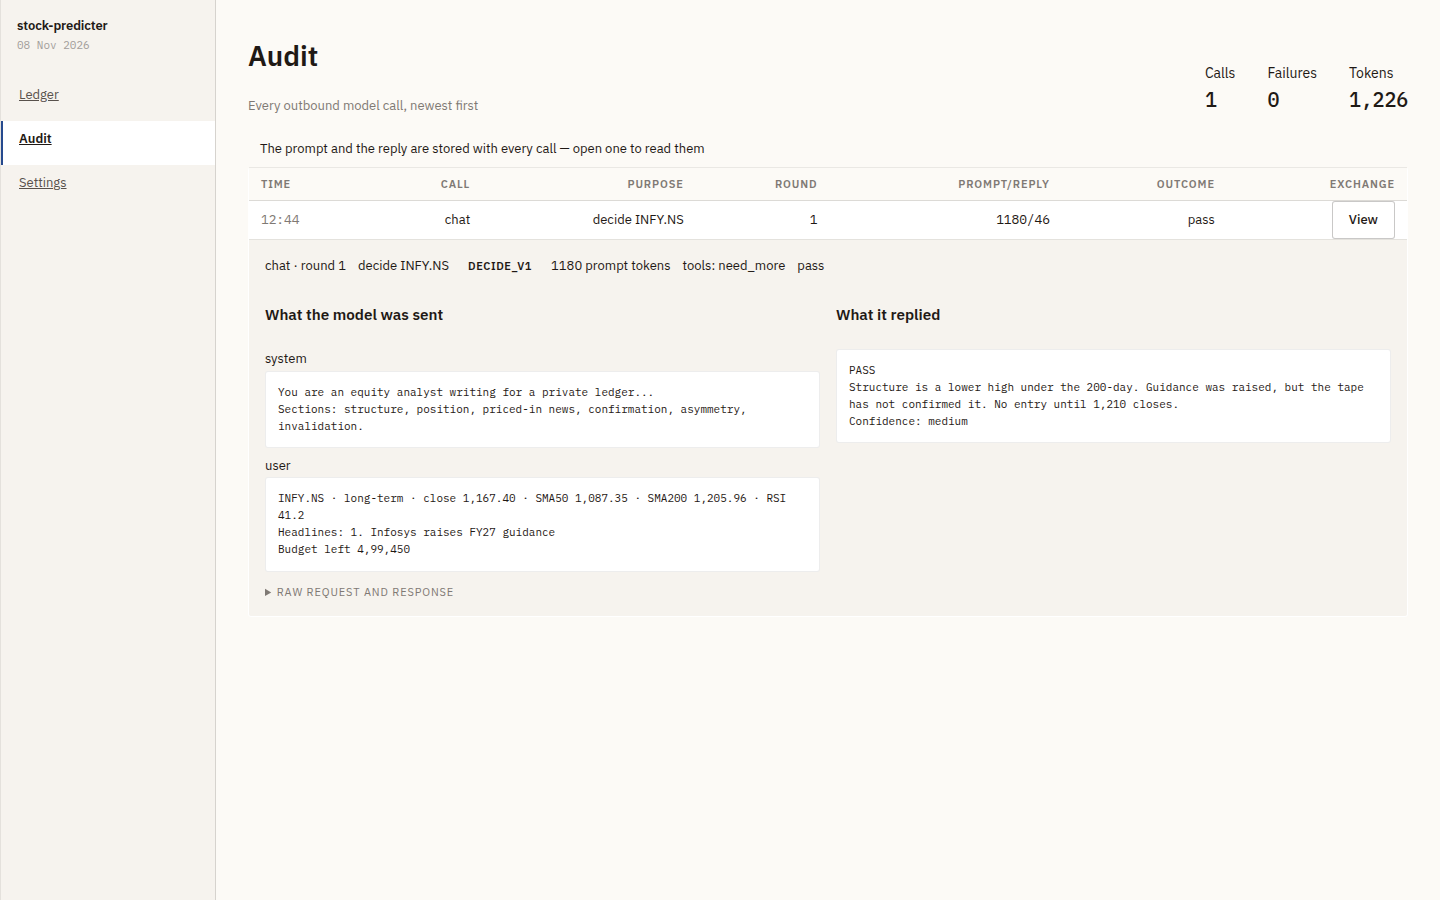
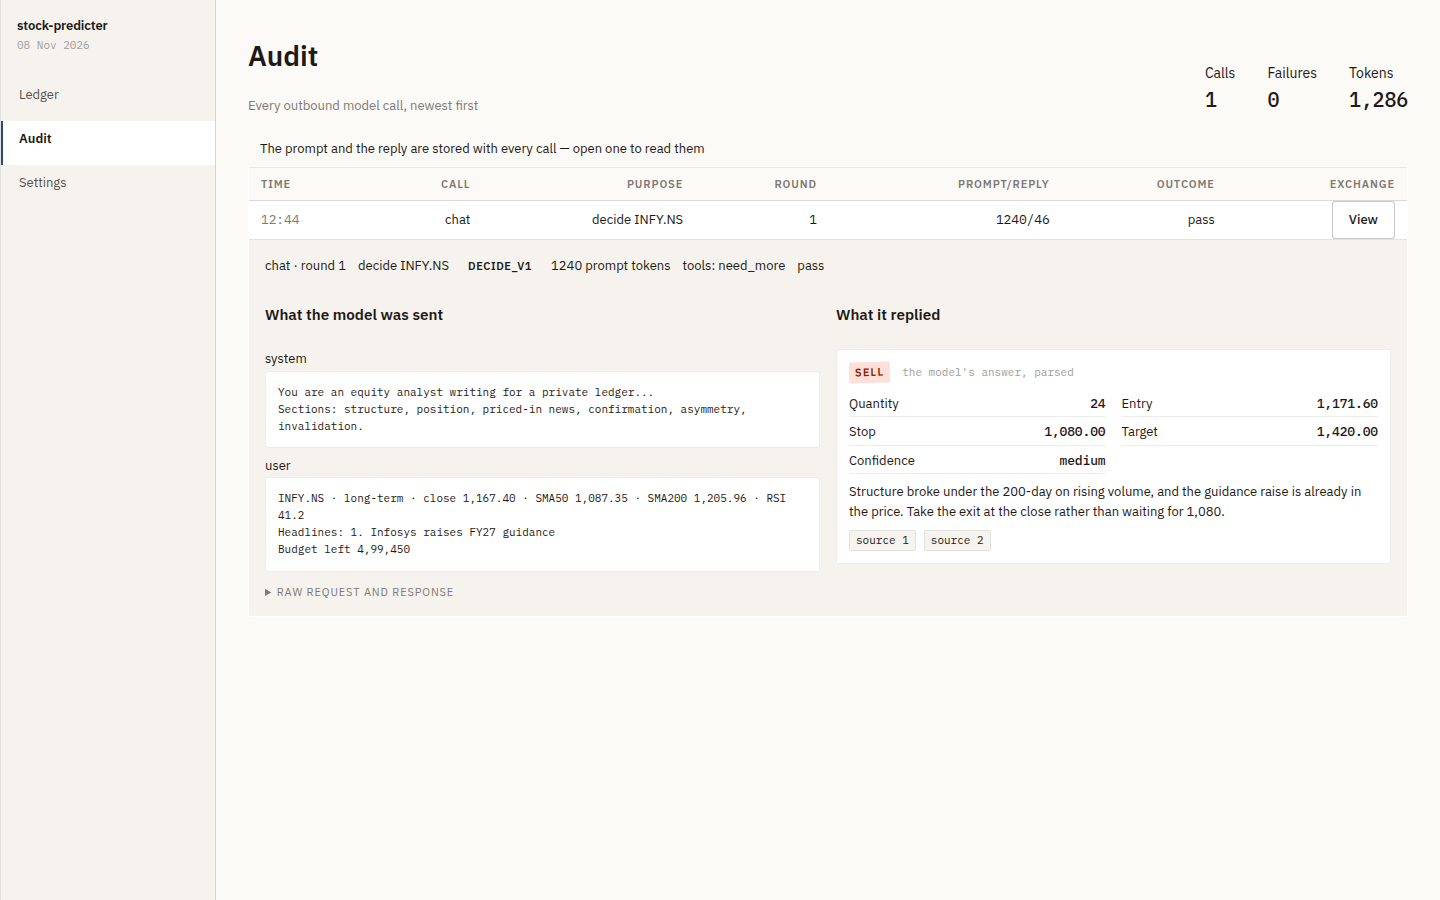
feat(ui): the model's reply reads as a decision, signal is its own column, no MF tag, undecorated rail

diff --git a/web/src/pages/ledger.ts b/web/src/pages/ledger.ts
@@ -61,13 +61,14 @@ export function renderRow(d: Dashboard, p: Dashboard["positions"][number]): stri
   return `<tr class="row" data-symbol="${escapeHtml(p.symbol)}" tabindex="0" role="link"
       aria-label="${escapeHtml(p.name)}, open details">
   <td class="holding"><div class="name">${escapeHtml(p.name)}</div>
-    <div class="sub">${escapeHtml(p.symbol)}${isFund ? ` <span class="stamp" data-stamp="estimate">MF</span>` : ""} · ${signal}</div></td>
+    <div class="sub">${escapeHtml(p.symbol)}</div></td>
   <td class="num hide-sm">${units(p.qty)}</td>
   <td class="num hide-sm">${money(p.avg_cost)}</td>
   <td class="num hide-sm">${money(invested)}</td>
   <td class="num">${nowCell}</td>
   <td class="num hide-sm">${valueCell}</td>
   <td class="num ${live ? (pnl >= 0 ? "up" : "down") : ""}">${pnlCell}</td>
+  <td class="signal-col">${signal}</td>
   <td class="right hide-sm">${plan}</td>
 </tr>`;
 }
@@ -85,11 +86,11 @@ function section(title: string, note: string, head: string, body: string, total?
 const STOCK_HEAD = `<tr><th scope="col">Holding</th><th scope="col" class="hide-sm">Qty</th>
   <th scope="col" class="hide-sm">Bought</th><th scope="col" class="hide-sm">Invested</th>
   <th scope="col">Now</th><th scope="col" class="hide-sm">Value</th>
-  <th scope="col">P&amp;L</th><th scope="col" class="hide-sm">Exit plan</th></tr>`;
+  <th scope="col">P&amp;L</th><th scope="col">Signal</th><th scope="col" class="hide-sm">Exit plan</th></tr>`;
 const FUND_HEAD = `<tr><th scope="col">Scheme</th><th scope="col" class="hide-sm">Units</th>
   <th scope="col" class="hide-sm">Avg NAV</th><th scope="col" class="hide-sm">Invested</th>
   <th scope="col">NAV today</th><th scope="col" class="hide-sm">Value</th>
-  <th scope="col">P&amp;L</th><th scope="col" class="hide-sm">Execution</th></tr>`;
+  <th scope="col">P&amp;L</th><th scope="col">Signal</th><th scope="col" class="hide-sm">Execution</th></tr>`;
 
 const subtotal = (label: string, invested: number, value: number): string => {
   const pnl = value - invested;
@@ -97,7 +98,7 @@ const subtotal = (label: string, invested: number, value: number): string => {
     <td class="num hide-sm">${money(invested)}</td><td>—</td>
     <td class="num hide-sm">${money(value)}</td>
     <td class="num ${pnl >= 0 ? "up" : "down"}">${pnl >= 0 ? "+" : "−"}${money(Math.abs(pnl))}</td>
-    <td class="sub hide-sm">—</td></tr>`;
+    <td>—</td><td class="sub hide-sm">—</td></tr>`;
 };
 
 const sum = (rows: Dashboard["positions"]): { invested: number; value: number } => ({
@@ -140,7 +141,7 @@ export function renderLedger(d: Dashboard, recent: Trade[]): string {
     STOCK_HEAD,
     stocks.length
       ? stocks.map((p) => renderRow(d, p)).join("")
-      : `<tr><td colspan="8" class="empty">No stocks yet — search on the right.</td></tr>`,
+      : `<tr><td colspan="9" class="empty">No stocks yet — search on the right.</td></tr>`,
     stocks.length
       ? subtotal("Stocks", sum(stocks).invested, sum(stocks).value)
       : "",
@@ -152,7 +153,7 @@ export function renderLedger(d: Dashboard, recent: Trade[]): string {
     FUND_HEAD,
     funds.length
       ? funds.map((p) => renderRow(d, p)).join("")
-      : `<tr><td colspan="8" class="empty">No funds yet. A fund is added at NAV and held.</td></tr>`,
+      : `<tr><td colspan="9" class="empty">No funds yet. A fund is added at NAV and held.</td></tr>`,
     funds.length
       ? subtotal("Funds", sum(funds).invested, sum(funds).value)
       : "",
@@ -172,7 +173,7 @@ export function renderLedger(d: Dashboard, recent: Trade[]): string {
   )}
   <div class="mode-row">${renderModeTabs(d.mode)}<span class="sub">${d.currency} · as of the last poll</span></div>
   ${d.mode === "trade" ? section("Trading positions", `${d.positions.length} · all stocks`, STOCK_HEAD,
-      d.positions.length ? d.positions.map((p) => renderRow(d, p)).join("") : `<tr><td colspan="8" class="empty">Nothing in the trading pot.</td></tr>`) : stocksSection + fundsSection}
+      d.positions.length ? d.positions.map((p) => renderRow(d, p)).join("") : `<tr><td colspan="9" class="empty">Nothing in the trading pot.</td></tr>`) : stocksSection + fundsSection}
   <div class="cards">
     <section class="card">
       <div class="lbl">Add an instrument</div>

diff --git a/web/src/components/call-viewer.ts b/web/src/components/call-viewer.ts
@@ -101,3 +101,68 @@ export function pretty(raw: string | null, max = 20000): string {
   const text = typeof value === "string" ? value : JSON.stringify(value, null, 2);
   return text.length > max ? `${text.slice(0, max)}\n… truncated in the view; the database has it all` : text;
 }
+
+/** The model's answer, once its JSON is understood. */
+export interface Reply {
+  /** "BUY" | "SELL" | "PASS" | "NEED_MORE" — or null when the body was not that shape. */
+  verdict: string | null;
+  entry: number | null;
+  stop: number | null;
+  target: number | null;
+  qty: number | null;
+  confidence: string | null;
+  rationale: string | null;
+  /** PASS carries "why"; NEED_MORE carries what it wants. */
+  why: string | null;
+  wantsHeadlines: number[];
+  wantsHistory: boolean;
+  cites: number[];
+  /** Anything else the body said, so nothing is silently dropped. */
+  rest: Record<string, unknown> | null;
+}
+
+const num = (v: unknown): number | null => (typeof v === "number" && Number.isFinite(v) ? v : null);
+const str = (v: unknown): string | null => (typeof v === "string" && v.trim() ? v.trim() : null);
+
+/** `{"action":"decide","signal":{…}}` and its bare variants, from one parser. */
+export function parseReply(content: string): Reply {
+  const empty: Reply = {
+    verdict: null, entry: null, stop: null, target: null, qty: null, confidence: null,
+    rationale: null, why: null, wantsHeadlines: [], wantsHistory: false, cites: [], rest: null,
+  };
+  let body: unknown;
+  try {
+    body = JSON.parse(content);
+  } catch {
+    return empty;
+  }
+  const outer = asRecord(body);
+  if (!outer) return empty;
+  const decision = asRecord(outer.signal) ?? outer;
+  const action = str(decision.action) ?? str(outer.action);
+  const verdict =
+    action === null ? null : action === "decide" ? "DECIDE" : action.toUpperCase();
+  const confidence = asRecord(decision.confidence) ? null : str(decision.confidence);
+  const more = asRecord(decision.need_more) ?? asRecord(outer.need_more) ?? asRecord(outer.more);
+  const headlines = more?.headlines ?? decision.headlines;
+  return {
+    verdict,
+    entry: num(decision.entry),
+    stop: num(decision.stop),
+    target: num(decision.target),
+    qty: num(decision.qty),
+    confidence: typeof confidence === "string" ? confidence : null,
+    rationale: str(decision.rationale) ?? str(outer.rationale),
+    why: str(decision.why) ?? str(outer.why) ?? str(outer.reason),
+    wantsHeadlines: Array.isArray(headlines)
+      ? headlines
+          .map((h) => (typeof h === "number" ? h : num(asRecord(h)?.headline_id)))
+          .filter((n): n is number => n !== null)
+      : [],
+    wantsHistory: Boolean(more?.price_history ?? more?.history),
+    cites: Array.isArray(decision.cites)
+      ? decision.cites.filter((c): c is number => typeof c === "number")
+      : [],
+    rest: outer,
+  };
+}

diff --git a/web/src/pages/calls.ts b/web/src/pages/calls.ts
@@ -1,8 +1,9 @@
 import type { CallRow } from "../api";
-import { escapeHtml } from "../format";
+import { escapeHtml, money } from "../format";
 import { renderApp, renderHead } from "../components/shell";
 import {
   declaredTools,
+  parseReply,
   pretty,
   promptBlocks,
   replyText,
@@ -53,6 +54,47 @@ export function renderCalls(rows: CallRow[]): string {
   </section>`);
 }
 
+/** The reply as a decision, not as JSON: a verdict, its numbers, and what it wants next. */
+function decisionCard(reply: string): string {
+  const r = parseReply(reply);
+  if (!r.verdict) {
+    return `<section class="call-block"><pre>${
+      reply ? escapeHtml(reply) : "<em>no readable content — see the raw JSON</em>"
+    }</pre></section>`;
+  }
+  const stamp = r.verdict === "BUY" ? "buy" : r.verdict === "SELL" ? "sell" : "estimate";
+  const row = (label: string, value: string) =>
+    `<div class="decision-row"><span class="lbl">${label}</span><b class="num">${value}</b></div>`;
+  const figures = [
+    r.qty !== null ? row("Quantity", String(r.qty)) : "",
+    r.entry !== null ? row("Entry", money(r.entry)) : "",
+    r.stop !== null ? row("Stop", money(r.stop)) : "",
+    r.target !== null ? row("Target", money(r.target)) : "",
+    r.confidence ? row("Confidence", r.confidence) : "",
+  ].join("");
+  const wants = r.wantsHeadlines.length
+    ? `<p class="decision-note">Asked for headline ${r.wantsHeadlines.join(", ")}${
+        r.wantsHistory ? " and the 7-day history" : ""
+      } before deciding.</p>`
+    : "";
+  const prose = [r.rationale, r.why].filter(Boolean).join("\n\n");
+  const cites = r.cites.length
+    ? `<div class="decision-cites">${r.cites
+        .map((c) => `<span class="chip">source ${c}</span>`)
+        .join("")}</div>`
+    : "";
+  return `<article class="decision" data-verdict="${r.verdict.toLowerCase()}">
+    <div class="decision-head">
+      <span class="stamp" data-stamp="${stamp}">${r.verdict}</span>
+      <span class="sub">the model's answer, parsed</span>
+    </div>
+    ${figures ? `<div class="decision-grid">${figures}</div>` : ""}
+    ${prose ? `<p class="decision-prose">${escapeHtml(prose)}</p>` : ""}
+    ${wants}
+    ${cites}
+  </article>`;
+}
+
 /** The expanded exchange: prompt by role, the reply, then the raw bodies on demand. */
 export function renderExchangeDetail(d: CallDetail): string {
   const blocks = promptBlocks(d.request_json);
@@ -86,9 +128,7 @@ export function renderExchangeDetail(d: CallDetail): string {
     </div>
     <div class="call-col">
       <h3 class="lbl">What it replied</h3>
-      <section class="call-block">
-        <pre>${reply ? escapeHtml(reply) : "<em>no readable content — see the raw JSON</em>"}</pre>
-      </section>
+      ${decisionCard(reply)}
     </div>
   </div>
   <details class="raw">

diff --git a/web/src/render.test.ts b/web/src/render.test.ts
@@ -87,11 +87,12 @@ describe("blotter row", () => {
     expect(html).toContain('role="link"');
   });
 
-  test("a fund is labelled so it is never mistaken for an intraday price", () => {
+  test("a fund row says units at NAV, not an intraday price", () => {
     const mf = position({ symbol: "AXISELSS", class: "mutual_fund", stop: null, ltp: 105.36, value: 25_000 });
     const html = renderRow(dashboard({ positions: [mf] }), mf);
-    expect(html).toContain('data-stamp="estimate"');
-    expect(html).toContain("MF");
+    expect(html).toContain("units at NAV");
+    // No MF badge any more: funds have their own table, so the label is redundant.
+    expect(html).not.toContain('data-stamp="estimate"');
   });
 
   test("no signal renders an em dash, not an empty cell", () => {
@@ -749,5 +750,48 @@ describe("reading a stored call", () => {
     const { declaredTools } = await import("./components/call-viewer");
     expect(declaredTools(request)).toEqual(["need_more"]);
     expect(declaredTools(null)).toEqual([]);
+  });
+});
+
+describe("reading a reply as a decision", () => {
+  test("a decide body becomes a verdict with its numbers", async () => {
+    const { parseReply } = await import("./components/call-viewer");
+    const r = parseReply(
+      JSON.stringify({
+        action: "decide",
+        signal: {
+          action: "SELL", qty: 24, entry: 1171.6, stop: 1080, target: 1420,
+          confidence: "medium", rationale: "structure broke", cites: [1, 2],
+        },
+      }),
+    );
+    expect(r.verdict).toBe("SELL");
+    expect(r.qty).toBe(24);
+    expect(r.entry).toBe(1171.6);
+    expect(r.confidence).toBe("medium");
+    expect(r.cites).toEqual([1, 2]);
+  });
+
+  test("a pass carries its reason and no numbers", async () => {
+    const { parseReply } = await import("./components/call-viewer");
+    const r = parseReply(JSON.stringify({ action: "pass", why: "nothing changed" }));
+    expect(r.verdict).toBe("PASS");
+    expect(r.why).toBe("nothing changed");
+    expect(r.entry).toBeNull();
+  });
+
+  test("need_more says what it wants", async () => {
+    const { parseReply } = await import("./components/call-viewer");
+    const r = parseReply(
+      JSON.stringify({ action: "need_more", need_more: { headlines: [3, 7], price_history: true } }),
+    );
+    expect(r.verdict).toBe("NEED_MORE");
+    expect(r.wantsHeadlines).toEqual([3, 7]);
+    expect(r.wantsHistory).toBe(true);
+  });
+
+  test("a body that is not JSON is not dressed up as a verdict", async () => {
+    const { parseReply } = await import("./components/call-viewer");
+    expect(parseReply("upstream timeout").verdict).toBeNull();
   });
 });

diff --git a/web/src/app.css b/web/src/app.css
@@ -579,6 +579,8 @@
   .rail-brand { padding: 0 var(--space-4) var(--space-6); display: grid; gap: 1px; }
   .rail-brand b { font-size: var(--text-sm); letter-spacing: -.01em; }
   .rail-brand span { font-family: var(--font-ledger); font-size: var(--text-xs); color: var(--ink-muted); }
+  .rail a, .rail a:hover, .rail a:focus { text-decoration: none; }
+  .signal-col { text-align: center; }
   .rail > a {
     display: flex; justify-content: space-between; align-items: baseline; gap: var(--space-2);
     padding: 8px var(--space-4); color: var(--ink-secondary); font-size: var(--text-sm);
@@ -649,4 +651,23 @@
     .figures { gap: var(--space-4); }
     .figures b { font-size: var(--text-md); }
   }
+}
+
+@layer components {
+  /* A model reply, read as a decision: verdict, numbers, then the words. */
+  .decision { border: 1px solid var(--rule-subtle); border-radius: var(--radius);
+    background: var(--paper-raised); padding: var(--space-3); display: grid; gap: var(--space-2); }
+  .decision[data-verdict="pass"] { background: var(--paper-inset); }
+  .decision-head { display: flex; gap: var(--space-3); align-items: baseline; }
+  .decision-grid { display: grid; grid-template-columns: repeat(2, minmax(0, 1fr)); gap: 2px var(--space-4); }
+  .decision-row { display: flex; justify-content: space-between; gap: var(--space-2);
+    border-bottom: 1px solid var(--rule-subtle); padding: 3px 0; }
+  .decision-row b { font-family: var(--font-ledger); font-weight: 500; }
+  .decision-prose { margin: 0; font-size: var(--text-sm); line-height: 1.55; white-space: pre-wrap; }
+  .decision-note { margin: 0; font-size: var(--text-xs); color: var(--ink-tertiary); }
+  .decision-cites { display: flex; gap: var(--space-2); flex-wrap: wrap; }
+  .decision-cites .chip { font-family: var(--font-ledger); font-size: var(--text-xs);
+    background: var(--paper-inset); border: 1px solid var(--rule-subtle); border-radius: 2px;
+    padding: 1px 6px; }
+  .stamp[data-stamp="estimate"] { color: var(--ink-secondary); background: var(--paper-inset); }
 }

diff --git a/README.md b/README.md
@@ -20,7 +20,7 @@ It is not a price oracle. The engine is a deterministic strategy plus a language
 the news, and every number it suggests is validated against your cash, your limits and the price band
 before you see it.
 
-<img src="docs/screenshots/ledger.png" alt="The ledger: holdings split into stocks and mutual funds, with P&L and exit plans">
+<img src="docs/screenshots/ledger-v2.png" alt="The ledger: holdings split into stocks and mutual funds, with P&L and exit plans">
 
 ## Current Features
 
